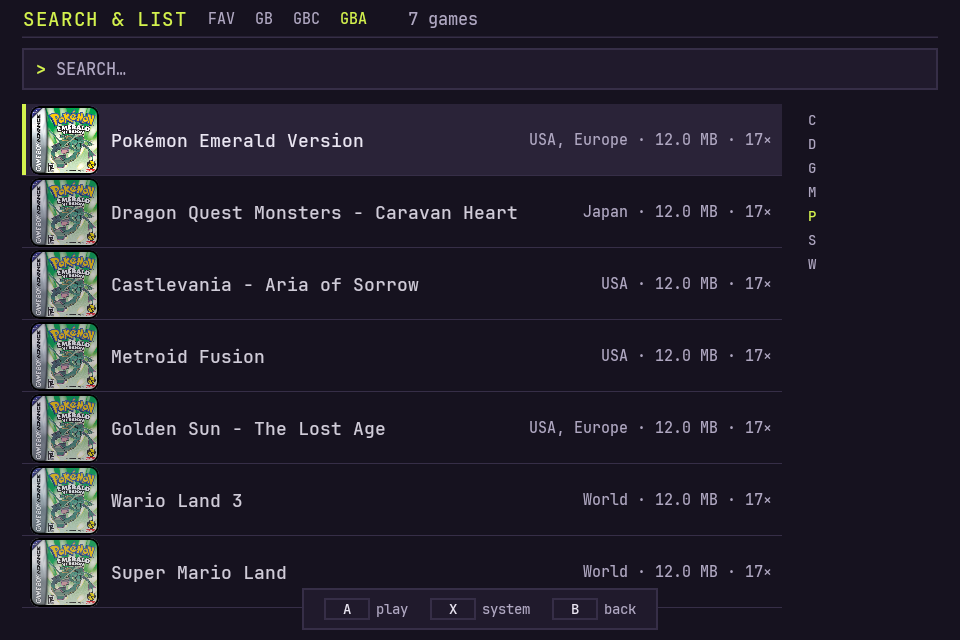
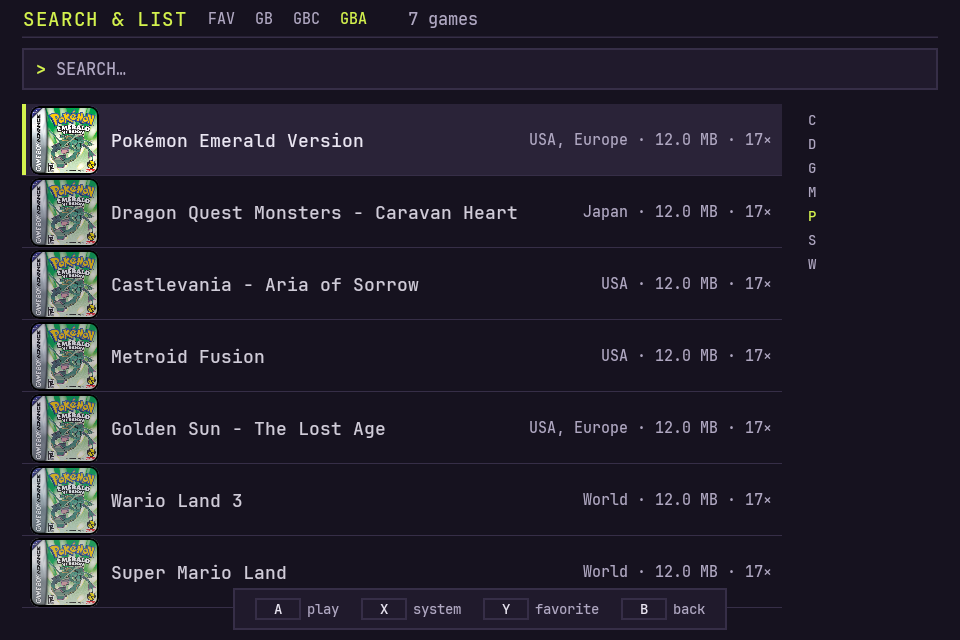
feat: Y=favorite di search (+badge ★), SELECT=menu aksi kartrid (Set/Remove boxart, Favorite) langsung dari shelf

Changed region(s): [[0.25, 0.9062, 0.75, 0.9688]]

diff --git a/android/app/src/main/java/id/iqbaldev/kartrid/ui/ShelfScreen.kt b/android/app/src/main/java/id/iqbaldev/kartrid/ui/ShelfScreen.kt
@@ -115,10 +115,14 @@ fun ShelfScreen(
     onFav: (Game) -> Unit,
     onSettings: () -> Unit,
     onSearch: () -> Unit,
+    onSetArt: (Game) -> Unit,
+    onClearArt: (Game) -> Unit,
     sfx: Sfx,
 ) {
     val scope = rememberCoroutineScope()
     val current = games.getOrNull(index)
+    var cartMenu by remember { mutableStateOf(false) }
+    var cartMenuSel by remember { mutableStateOf(0) }
 
     // posisi carousel dianimasikan sebagai indeks pecahan
     val f by animateFloatAsState(
@@ -180,7 +184,26 @@ fun ShelfScreen(
             .focusable()
             .onPreviewKeyEvent { ev ->
                 if (ev.type != KeyEventType.KeyDown) return@onPreviewKeyEvent false
-                when (ev.nativeKeyEvent.keyCode) {
+                if (cartMenu) {
+                    when (ev.nativeKeyEvent.keyCode) {
+                        AKey.KEYCODE_DPAD_UP -> { cartMenuSel = (cartMenuSel - 1).coerceAtLeast(0); sfx.tick(); true }
+                        AKey.KEYCODE_DPAD_DOWN -> { cartMenuSel = (cartMenuSel + 1).coerceAtMost(2); sfx.tick(); true }
+                        AKey.KEYCODE_BUTTON_A, AKey.KEYCODE_DPAD_CENTER, AKey.KEYCODE_ENTER -> {
+                            val g = current
+                            if (g != null) {
+                                when (cartMenuSel) {
+                                    0 -> onSetArt(g)
+                                    1 -> onClearArt(g)
+                                    else -> onFav(g)
+                                }
+                            }
+                            cartMenu = false
+                            sfx.tick(); true
+                        }
+                        AKey.KEYCODE_BUTTON_B, AKey.KEYCODE_BACK -> { cartMenu = false; sfx.tick(); true }
+                        else -> true
+                    }
+                } else when (ev.nativeKeyEvent.keyCode) {
                     AKey.KEYCODE_DPAD_LEFT -> { move(-1); sfx.tick(); true }
                     AKey.KEYCODE_DPAD_RIGHT -> { move(1); sfx.tick(); true }
                     AKey.KEYCODE_BUTTON_L1, AKey.KEYCODE_BUTTON_L2 -> { val i = Tab.list.indexOf(tab); onTab(Tab.list[(i + Tab.list.size - 1) % Tab.list.size]); sfx.tick(); true }
@@ -188,6 +211,7 @@ fun ShelfScreen(
                     AKey.KEYCODE_BUTTON_A, AKey.KEYCODE_DPAD_CENTER, AKey.KEYCODE_ENTER -> { play(); true }
                     AKey.KEYCODE_BUTTON_X -> { current?.let { onFav(it); sfx.tick() }; true }
                     AKey.KEYCODE_BUTTON_Y -> { onSearch(); sfx.tick(); true }
+                    AKey.KEYCODE_BUTTON_SELECT -> { cartMenu = true; cartMenuSel = 0; sfx.tick(); true }
                     AKey.KEYCODE_BUTTON_B, AKey.KEYCODE_BACK -> { onSettings(); sfx.tick(); true }
                     else -> false
                 }
@@ -411,6 +435,41 @@ fun ShelfScreen(
                 HintItem("Y", "search")
                 ListSpacer()
                 HintItem("B", "settings")
+                ListSpacer()
+                HintItem("SEL", "menu")
+            }
+        }
+
+        // ---- menu aksi kartrid (SELECT): set/remove boxart, favorite ----
+        if (cartMenu) {
+            val g = current
+            val opts = listOf("Set custom boxart", "Remove custom boxart", if (g?.fav == true) "Unfavorite" else "Favorite")
+            Box(
+                Modifier
+                    .offset(x = (CENTER_X - 230f).dp, y = 322f.dp)
+                    .size(460.dp, 190.dp)
+                    .background(T.bg.copy(alpha = 0.92f))
+                    .border(1.5.dp, T.hairline),
+            ) {
+                Column(Modifier.fillMaxSize().padding(16.dp)) {
+                    Text((g?.title ?: "").uppercase(), color = T.mutedFg, fontFamily = MONO, fontSize = 10.sp, maxLines = 1, overflow = TextOverflow.Ellipsis)
+                    Box(Modifier.height(8.dp))
+                    for ((i, o) in opts.withIndex()) {
+                        Row(
+                            Modifier
+                                .fillMaxWidth()
+                                .height(42.dp)
+                                .drawBehind { if (i == cartMenuSel) drawRect(T.muted) }
+                                .clickable { cartMenuSel = i; sfx.tick() }
+                                .padding(horizontal = 10.dp),
+                            verticalAlignment = Alignment.CenterVertically,
+                        ) {
+                            Text(if (i == cartMenuSel) "»" else " ", color = T.lime, fontFamily = MONO, fontSize = 12.sp)
+                            Box(Modifier.width(8.dp))
+                            Text(o, color = if (i == cartMenuSel) T.lime else T.fg, fontFamily = MONO, fontSize = 13.sp)
+                        }
+                    }
+                }
             }
         }
 

diff --git a/android/app/src/main/java/id/iqbaldev/kartrid/ui/ListScreen.kt b/android/app/src/main/java/id/iqbaldev/kartrid/ui/ListScreen.kt
@@ -35,6 +35,7 @@ import androidx.compose.ui.focus.FocusRequester
 import androidx.compose.ui.focus.focusRequester
 import androidx.compose.ui.geometry.Offset
 import androidx.compose.ui.geometry.Size
+import androidx.compose.ui.graphics.Color
 import androidx.compose.ui.graphics.ImageBitmap
 import androidx.compose.ui.graphics.SolidColor
 import androidx.compose.ui.input.key.KeyEventType
@@ -70,6 +71,7 @@ fun ListScreen(
     onLaunch: (Game) -> Unit,
     onClose: () -> Unit,
     onTab: (Tab) -> Unit,
+    onFav: (Game) -> Unit,
     sfx: Sfx,
 ) {
     var sel by remember { mutableStateOf(0) }
@@ -136,7 +138,11 @@ fun ListScreen(
                         sfx.tick()
                         true
                     }
-                    AKey.KEYCODE_BUTTON_B, AKey.KEYCODE_BACK -> { kb?.hide(); onClose(); sfx.tick(); true }
+                    AKey.KEYCODE_BUTTON_Y -> {
+                            list.getOrNull(selSafe)?.let { onFav(it) }
+                            sfx.tick(); true
+                        }
+                        AKey.KEYCODE_BUTTON_B, AKey.KEYCODE_BACK -> { kb?.hide(); onClose(); sfx.tick(); true }
                     else -> false
                 }
             },
@@ -256,6 +262,10 @@ fun ListScreen(
                             }
                         }
                         Box(Modifier.width(12.dp))
+                        if (g.fav) {
+                            Text("★", color = Color(0xFFFFC94D), fontFamily = MONO, fontSize = 15.sp)
+                            Box(Modifier.width(8.dp))
+                        }
                         Column(Modifier.weight(1f)) {
                             Text(
                                 text = g.title,
@@ -322,6 +332,7 @@ fun ListScreen(
                 ) {
                     HintItem("A", "play")
                     HintItem("X", "system")
+                    HintItem("Y", "favorite")
                     HintItem("B", "back")
                 }
             }

diff --git a/android/app/src/main/java/id/iqbaldev/kartrid/MainActivity.kt b/android/app/src/main/java/id/iqbaldev/kartrid/MainActivity.kt
@@ -461,6 +461,11 @@ private fun KartridRoot(
                     }
                 },
                 onSearch = { screen = 2 },
+                onSetArt = { g ->
+                    customArtTarget = g
+                    artPicker.launch("image/*")
+                },
+                onClearArt = { clearCustomArt(it) },
                 sfx = sfx,
             )
         } else if (screen == 1) {
@@ -528,6 +533,11 @@ private fun KartridRoot(
                     }
                 },
                 onTab = { switchTab(it) },
+                onFav = { g ->
+                    val updated = games.map { if (it.id == g.id) it.copy(fav = !it.fav) else it }
+                    games = updated
+                    store.saveLibrary(Library(updated, store.library.scannedAt, store.library.folderStamp))
+                },
                 sfx = sfx,
             )
         }

diff --git a/android/app/src/test/java/id/iqbaldev/kartrid/PreviewTest.kt b/android/app/src/test/java/id/iqbaldev/kartrid/PreviewTest.kt
@@ -85,6 +85,7 @@ class PreviewTest {
                     artRunning = false,
                     scanNote = "",
                     onTab = {}, onIndex = {}, onLaunch = {}, onFav = {}, onSettings = {}, onSearch = {},
+                    onSetArt = {}, onClearArt = {},
                     sfx = Sfx(ctx),
                 )
             }
@@ -230,7 +231,7 @@ class PreviewTest {
                     games = games(),
                     artOf = { art("gba_Pokemon_-_Emerald_Version__USA__Europe_.png") },
                     artVersion = 0,
-                    onLaunch = {}, onClose = {}, onTab = {},
+                    onLaunch = {}, onClose = {}, onTab = {}, onFav = {},
                     sfx = Sfx(ctx),
                 )
             }
